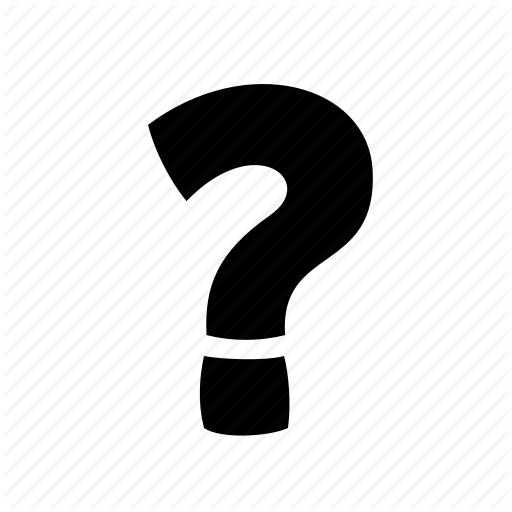
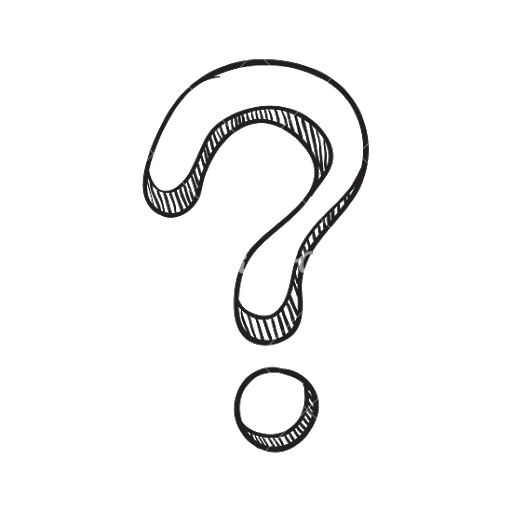
Update landing page styling and image

Changed region(s): [[0.2812, 0.0938, 0.75, 0.9062]]

diff --git a/soa/frontend/src/Landing.js b/soa/frontend/src/Landing.js
@@ -1,38 +1,18 @@
 import React from 'react';
 import './Landing.css';
 import Footer from './Footer.js';
-import askquestion from './images/askquestion.jpg'
+import NavBar from './NavBar.js';
 
 class Landing extends React.Component{
 
     constructor(props) {
         super(props);
-        this.homeRedirect = this.homeRedirect.bind(this);
-    }
-
-    homeRedirect = (e) => {
-        window.location.href = "/";
     }
 
     render(){
         return(
             <div className="landing-container">
-                <div className="top-container">
-                    <div className="title-landing">
-                        <div id="logo-icon"></div>
-                        <div className="title-text" onClick={this.homeRedirect}>askmeanything</div>
-                    </div>
-                    <div className="gap-top" >
-                    </div>
-                    <div className="top-button-container">
-                        <div className="sign-in-container">
-                            <div id="sign-in-btn">Sign In</div>
-                        </div>
-                        <div className="sign-up-container">
-                            <button id="sign-up-btn">Sign Up</button>
-                        </div>
-                    </div>
-                </div>
+                <NavBar />
                 <div className="main-landing-container">
                     <div className="heading-text">
                         <p>Welcome to askmeanything!</p>
@@ -44,7 +24,7 @@ class Landing extends React.Component{
                                 <div className="keyword-title">Add a new question</div>
                             </div>
                             <div className="image-container center-content">
-                                <img id="quest-img" src={askquestion}/>
+                                <div id="quest-img"></div>
                             </div>
                             <div className="quest-text">
                                 <p>Having trouble solving an issue? <br></br> Would you like a second

diff --git a/soa/frontend/src/Landing.css b/soa/frontend/src/Landing.css
@@ -1,3 +1,8 @@
+:root{
+    --orange: rgb(211, 115, 26);
+}
+
+@import url();
 
 body{
     font-family: -apple-system, BlinkMacSystemFont, 'Segoe UI', Roboto, Oxygen, Ubuntu, Cantarell, 'Open Sans', 'Helvetica Neue', sans-serif;
@@ -202,6 +207,10 @@ body{
 #quest-img{
     height:12vw;
     border-radius: 2px;
+    background-image: url(images/askquestion.png);
+    background-size: 250px;
+    background-position: center;
+    background-repeat: no-repeat;
 }
 
 .quest-text{
@@ -214,7 +223,7 @@ body{
 #quest-but{
     margin:15px;
     padding:10px;
-    height:50px;
+    height:fit-content;
     width:12vw;
     font-size: larger;
     border:1px solid grey;
